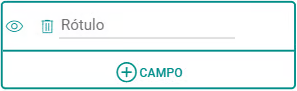
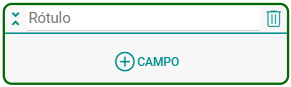
nilson

Changed region(s): [[0.0, 0.0, 1.0, 0.9885]]

diff --git a/docs/07_funcionalidades/19-modelo-anamnese/00-visao.md b/docs/07_funcionalidades/19-modelo-anamnese/00-visao.md
@@ -61,16 +61,11 @@ Os tópicos são seções da anamnese, permitindo que as informações sejam reg
 
   Além disso, mesmo após selecionar um modelo, você ainda pode personalizá-lo conforme o perfil ou necessidade individual de cada cliente.
 
-
 ## Benefícios dos Modelos de Anamnese:
 
 - **Padronização:** Garante que todas as informações sejam coletadas de forma uniforme.
 - **Eficiência:** Facilita a criação e o preenchimento de prontuários, economizando tempo e reduzindo erros.
 - **Organização:** Ajuda a manter as informações bem estruturadas e acessíveis.
-
-## Inclui modelos de anamnese do eConsult
-
-1. No painel "Modelos de Anamnese" clique no botão "Restaurar Padrões do Sistema" ![Modelo de Anamnese](../../../static/img/prints/buttons/btn_add.png).
 
 ## Incluir um novo Modelo de Anamnese
 
@@ -90,17 +85,33 @@ Os tópicos são seções da anamnese, permitindo que as informações sejam reg
 
 1. Acione o botão "Salvar" ![Modelo de Anamnese](../../../static/img/prints/buttons/btn_salvar.png).
 
-## Mostrar e ocultar campos e/ou valores de campos de um tópico
+:::note
+**Mostrar e ocultar campos e/ou valores de campos de um tópico:**
 
-No momento do cadastro você pode mostrar ou ocultar os campos ou valores de campos de um determinado tópico (isto para melhorar sua navegação na tela apenas). Para isso use os botões ![Modelo de Anamnese](../../../static/img/prints/buttons/btn_nao-visualizar.png) e ![Modelo de Anamnese](../../../static/img/prints/buttons/btn_visualizar.png) ao lado do tópico, onde ![Modelo de Anamnese](../../../static/img/prints/buttons/btn_nao-visualizar.png) indica que os campos estão ocultos e ![Modelo de Anamnese](../../../static/img/prints/buttons/btn_visualizar.png) indica que os campos estão sendo mostrados.
+No momento do cadastro você pode mostrar ou ocultar os campos ou valores de campos de um determinado tópico (isto para melhorar sua navegação na tela apenas). Para isso use os botões ![Modelo de Anamnese](../../../static/img/prints/buttons/btn_abrir_topico.png) e ![Modelo de Anamnese](../../../static/img/prints/buttons/btn_fechar_topico.png) ao lado do tópico.
+:::
+
+## Incluir modelos padrão de anamnese do eConsult
+
+1. No painel "Modelos de Anamnese" clique no botão "Restaurar Padrões do Sistema" ![Modelo de Anamnese](../../../static/img/prints/buttons/btn_restaurar_padroes_do_sistema.png).
+
+1. O sistema restaura os modelos de anamnese mantendo somente os modelos padrões do sistema.
 
 ## Incluir novos tópicos
+
+1. No painel **Modelos de Anamnese**, clique no botão de edição ![Editar Modelo de Anamnese](../../../static/img/prints/buttons/btn_card-edit.png) do modelo em que deseja incluir o tópico.
 
 1. Acione uma das opções "Incluir Tópico" ![Modelos de Anamnese](../../../static/img/prints/anamnese/005.png).
 
 1. Preencha o campo "Rótulo" com nome desejado para o novo tópico.
 
     ![Modelos de Anamnese](../../../static/img/prints/anamnese/006.png)
+
+    :::note
+    Os **novos tópicos** serão exibidos com **fundo em cinza claro** e um **contorno em verde destacado**, facilitando a identificação visual.  
+
+    Esse destaque indica que o tópico ainda **não foi salvo** no sistema.
+    :::
 
 ## Incluir campos num determinado tópico
 
